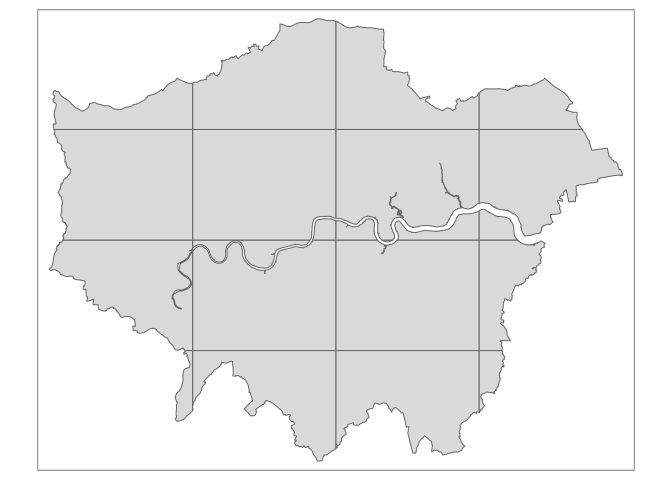
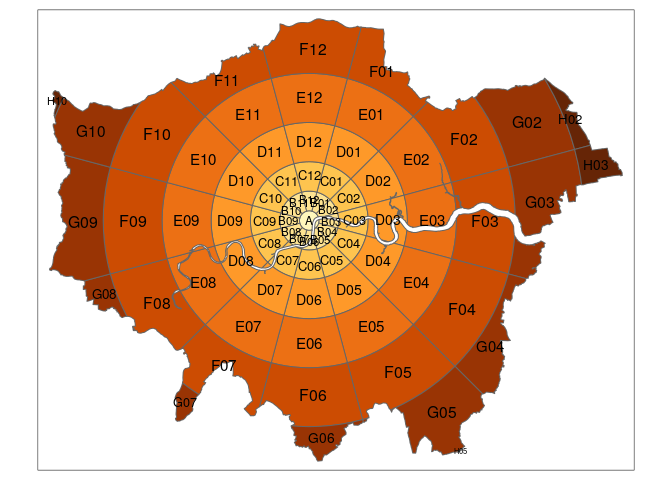
Update readme

diff --git a/README.md b/README.md
@@ -11,10 +11,9 @@ status](https://travis-ci.org/zonebuilders/zonebuilder.svg?branch=master)](https
 
 The goal of zonebuilder is to break up large geographic regions such as
 cities into manageable zones. Zoning systems are important in many
-fields, including transport planning, where we hope to use the zones
-generated by `zonebuilder` to build the evidence base needed to enable
-uptake of healthy modes of transport like walking, cycling and renewable
-electricity-powered public transport. See its website at
+fields, including demographics, economy, health, and transport. The
+zones have standard configuration, which enabled comparability across
+cities. See its website at
 [zonebuilders.github.io/zonebuilder](https://zonebuilders.github.io/zonebuilder/).
 
 ## Installation
@@ -34,96 +33,71 @@ Zonebuilder works with `sf` objects and works well alongside the `sf`
 package and visualisation packages that support spatial data such as
 `ggplot2`, `leaflet`, `mapdeck`, `mapview` and `tmap`, the last of which
 we’ll use in the following maps. Attaching the package provides the
-example dataset `london_area`, the geographic boundary of a large city
-(London, UK):
+example datasets `london_area` and `london_cent`, the geographic
+boundary and the centre of London:
 
 ``` r
 library(zonebuilder)
 library(tmap)
-tmap_border = tm_shape(london_area) + tm_borders()
-tmap_border
+tm_shape(london_area) + tm_borders() + tm_shape(london_cent) + tm_dots("red")
 ```
 
 <img src="man/figures/README-unnamed-chunk-3-1.png" width="100%" />
 
-The core functions in the package break up geographical space into
-discrete chunks. The syntax is designed to be user friendly. The
-following command, for example, breaks London into quadrats of equal
-size (and keeping only the space inside the boundary):
+The main function `zb_zone` breaks this geographical scale into zones.
+The default settings follow the **ClockBoard** configuration:
 
 ``` r
-x = london_area
-q = zb_quadrat(x, ncol = 4) # break into 4
-qtm(q) 
+library(zonebuilder)
+library(tmap)
+london_zones = zb_zone(london_area, london_cent)
+zb_plot(london_zones)
 ```
 
 <img src="man/figures/README-unnamed-chunk-4-1.png" width="100%" />
 
-Another zoning option is ‘doughnuts’:
+The idea behind this zoning system is based on the following principles:
+
+  - Most cities have a centre, the ‘heart’ of the city. Therefore, the
+    zones are distributed around the centre.
+  - Typically, the population is much denser in and around the centre
+    and also the traffic intensity is higher. Therefore, the zones are
+    smaller in and around the centre.
+  - The rings (so A, B, C, D, etc) reflect the proximity to the centre
+    point. The distances from the outer borders of the rings A, B, C, D,
+    etc. follow the triangular number sequence 1, 3, 6, 10, etc. This
+    means that in everyday life use, within zone A everything is in
+    walking distance, from ring B to the centre requires a bike, from
+    zone C and further to the centre typically requires public
+    transport.
+  - Regarding direction relative to the centre, we use the clock
+    analogy, since most people are familiar with that. So each ring
+    (annuli) is divided into 12 segments, where segment 12 is directed
+    at 12:00, segment 1 at 1:00 etc.
+
+The package `zonebuilder` does not only create zoning systems based on
+the CloadBoard layout as illustrated below.
+
+The lower-level fuinctionm
+
+The functions `zb_doughnuts` generates rings:
 
 ``` r
+tmap_border = tm_shape(london_area) + tm_borders()
 tmap_arrange(
-  qtm(zb_doughnut(x, n_circles = 3)) + tmap_border,
-  qtm(zb_doughnut(x, distance = 3)) + tmap_border
+  qtm(zb_doughnut(london_area, london_cent, n_circles = 5), title = "Doughnuts") + tmap_border,
+  qtm(zb_segment(london_cent, n_segments = 20), title = "Segments") + tmap_border
 )
-#> Set distance to enable distance_growth
 ```
 
 <img src="man/figures/README-unnamed-chunk-5-1.png" width="100%" />
 
-A new zoning system implemented in the function `zb_zone()` segments
-doughnuts of gradually increasing width to create concentric segmented
-annuli (CSA):
-
 ``` r
-library(zonebuilder)
-x = london_area
-z = zb_zone(x)
-z
-#> Simple feature collection with 76 features and 3 fields
-#> geometry type:  GEOMETRY
-#> dimension:      XY
-#> bbox:           xmin: 503458.6 ymin: 155907.5 xmax: 561840.6 ymax: 200985.4
-#> epsg (SRID):    27700
-#> proj4string:    +proj=tmerc +lat_0=49 +lon_0=-2 +k=0.9996012717 +x_0=400000 +y_0=-100000 +ellps=airy +units=m +no_defs
-#> First 10 features:
-#>    circle_id segment_id label                       geometry
-#> 1          1         01     A MULTIPOLYGON (((532101.7 17...
-#> 2          2         01   B01 MULTIPOLYGON (((531808.8 18...
-#> 3          2         02   B02 MULTIPOLYGON (((532067.6 17...
-#> 4          2         03   B03 MULTIPOLYGON (((534101.7 17...
-#> 5          2         04   B04 POLYGON ((533999.5 178928, ...
-#> 6          2         05   B05 POLYGON ((533223 177583.2, ...
-#> 7          2         06   B06 POLYGON ((531878.2 176806.7...
-#> 8          2         07   B07 MULTIPOLYGON (((530325.3 17...
-#> 9          2         08   B08 MULTIPOLYGON (((528980.4 17...
-#> 10         2         09   B09 POLYGON ((528203.9 178928, ...
-qtm(z)
+tmap_arrange(
+  qtm(zb_zone(london_area, london_cent, n_segments = 1, n_circles = 5), title = "Doughnuts") + tmap_border,
+  qtm(zb_zone(london_area, london_cent, n_segments = 12, n_circles = 1, segment_center = TRUE), title = "Segments") + tmap_border,
+  qtm(zb_quadrat(london_area, london_cent, ncol = 4), title = "Quadrants") + tmap_border
+)
 ```
 
 <img src="man/figures/README-unnamed-chunk-6-1.png" width="100%" />
-
-This function gives you control over a number of parameters, as
-documented in the help pages and an in-progress academic paper.
-
-``` r
-args(zb_zone)
-#> function (x = NULL, point = NULL, n_circles = NULL, n_segments = 12, 
-#>     distance = 1, distance_growth = 1, starting_angle = 15, segment_center = FALSE, 
-#>     intersection = TRUE) 
-#> NULL
-```
-
-The zones are labeled by default in the following way. The rings are
-labels with capital letters, where A is the centre. The segments are
-numbers using clock hours, so 12, 3, 6, and 9 for north, east, south,
-west respectivly.
-
-``` r
-z = zb_zone(x, n_circles = 4)
-tm_shape(z) +
-  tm_polygons(col = "circle_id", legend.show = FALSE, palette = "magma") + 
-  tm_text("label")
-```
-
-<img src="man/figures/README-unnamed-chunk-8-1.png" width="100%" />
